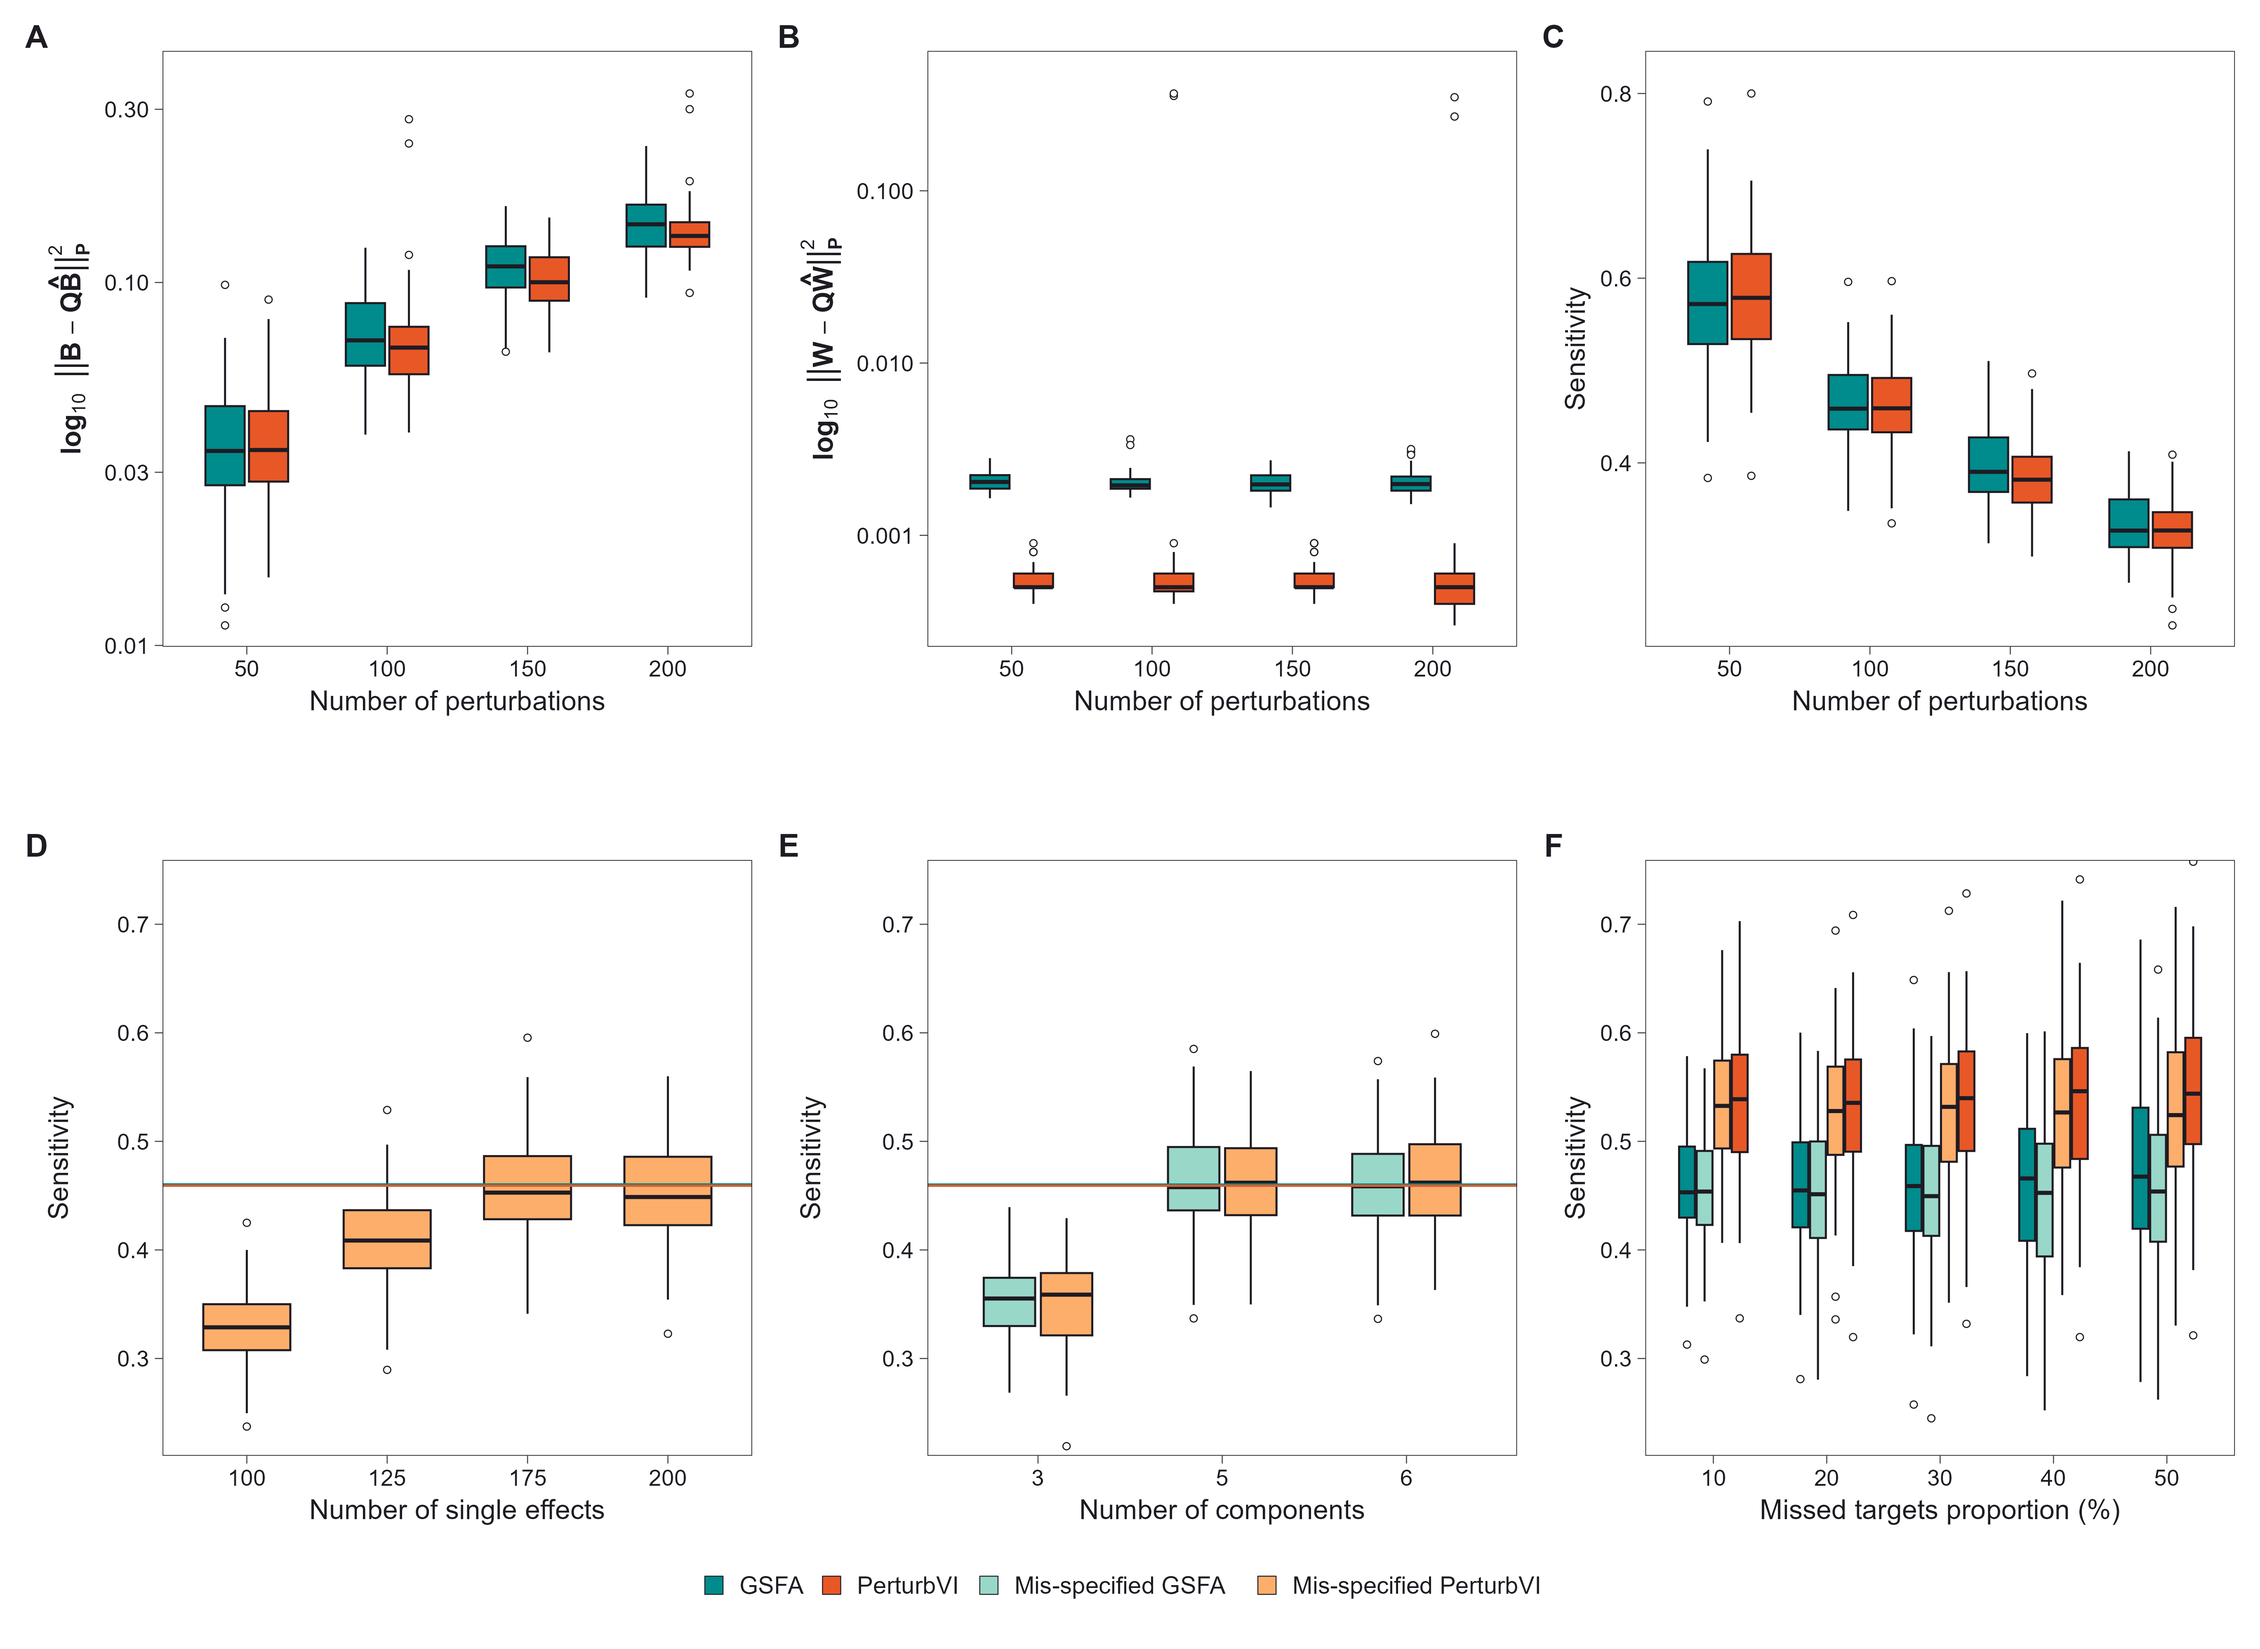
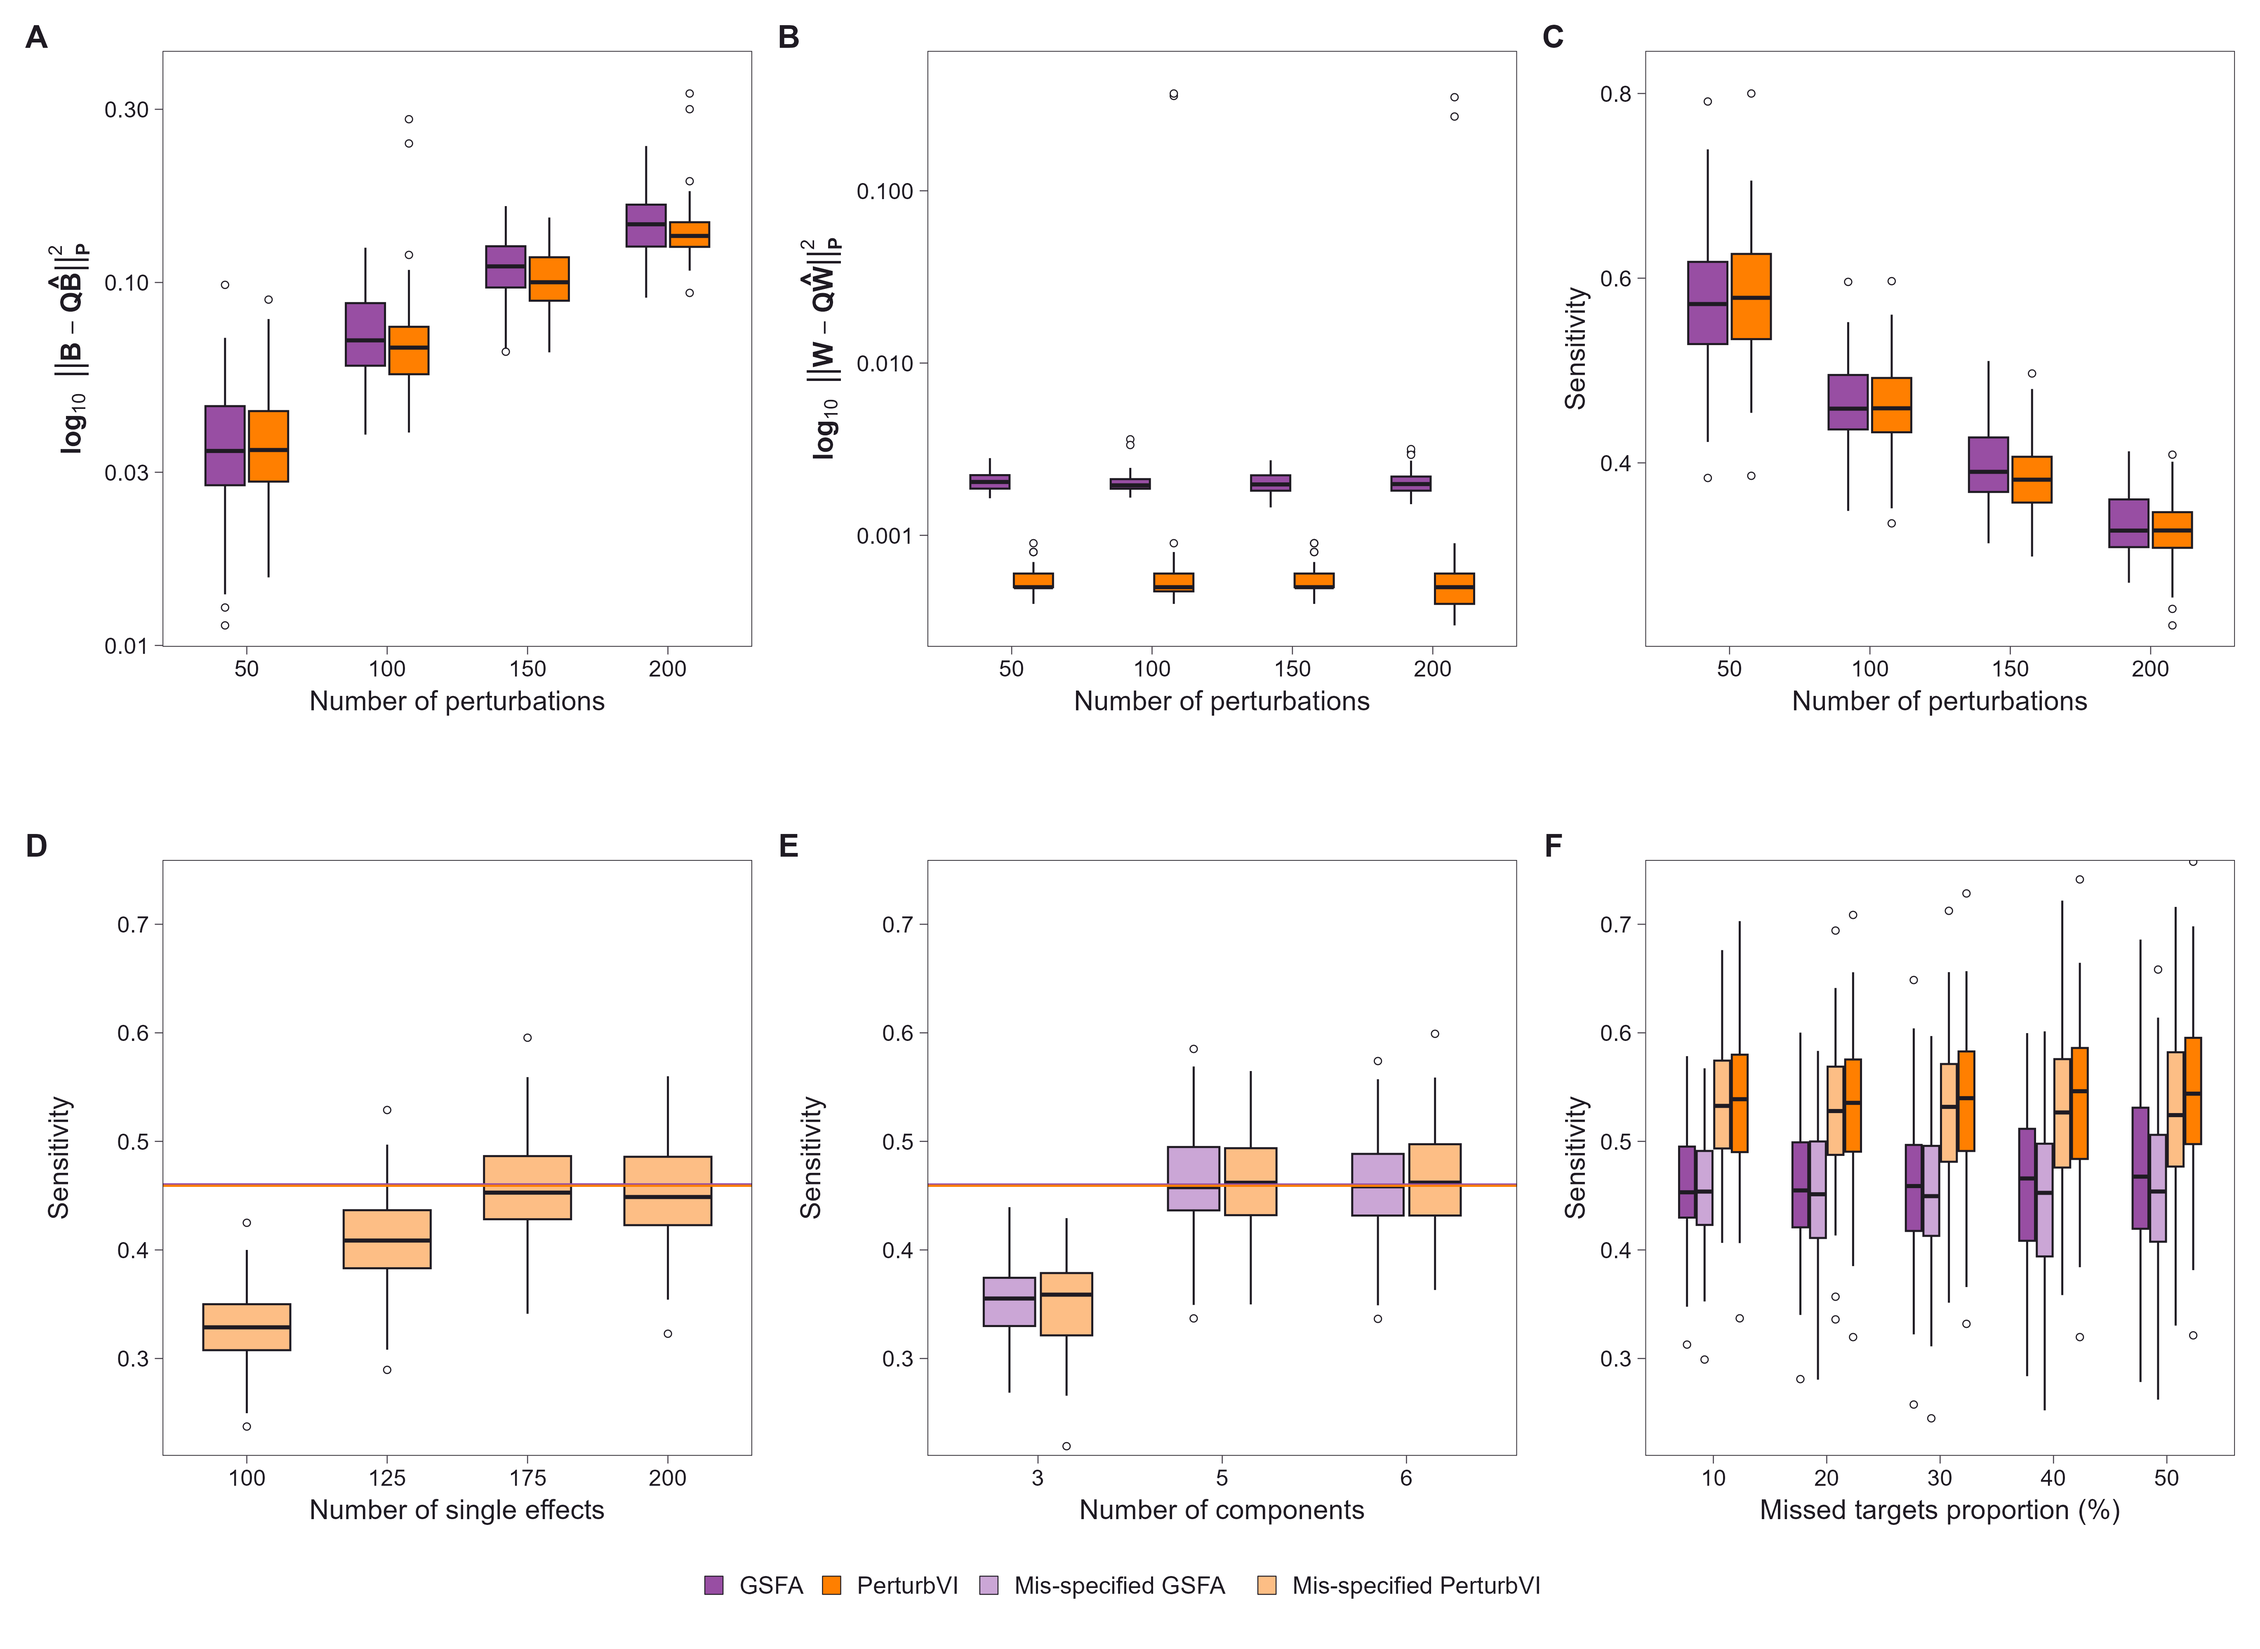
chore: update color

diff --git a/README.md b/README.md
@@ -1,1 +1,3 @@
 ## PerturbVI analysis
+
+Data: [10.5281/zenodo.23106975](https://doi.org/10.5281/zenodo.23106975)
